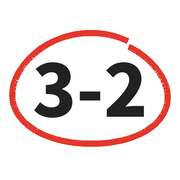
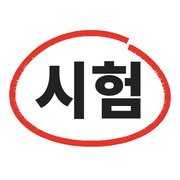
시험대비로 이름 변경, 앱 문구를 부드러운 말투로
Claude-Session: https://claude.ai/code/session_01Q9qMws47ZWFRTiFuZs99B2

Changed region(s): [[0.1944, 0.3333, 0.8056, 0.6667]]

diff --git a/exam/index.html b/exam/index.html
@@ -3,13 +3,13 @@
 <head>
 <meta charset="UTF-8">
 <meta name="viewport" content="width=device-width, initial-scale=1, viewport-fit=cover">
-<title>3-2 기말고사</title>
+<title>시험대비</title>
 <meta name="description" content="역사, 수학, 영어 기말고사 단계별 문제">
 <meta name="theme-color" content="#ffffff">
 <meta name="apple-mobile-web-app-capable" content="yes">
 <meta name="mobile-web-app-capable" content="yes">
 <meta name="apple-mobile-web-app-status-bar-style" content="default">
-<meta name="apple-mobile-web-app-title" content="3-2 기말고사">
+<meta name="apple-mobile-web-app-title" content="시험대비">
 <link rel="icon" type="image/png" href="favicon.png">
 <link rel="apple-touch-icon" href="apple-touch-icon.png">
 <link rel="stylesheet" href="https://cdn.jsdelivr.net/gh/orioncactus/pretendard@v1.3.9/dist/web/variable/pretendardvariable-dynamic-subset.min.css">
@@ -59,8 +59,7 @@ button:focus-visible, textarea:focus-visible, input:focus-visible { outline: 2px
 /* home */
 .home { padding-top: calc(env(safe-area-inset-top, 0px) + 56px); }
 .title { margin: 0; font-weight: 800; letter-spacing: -0.045em; line-height: 0.98; }
-.title .t1 { display: block; font-size: 88px; letter-spacing: -0.06em; }
-.title .t2 { display: block; font-size: 40px; margin-top: 6px; }
+.title .t1 { display: block; font-size: 64px; letter-spacing: -0.05em; }
 .lead { margin: 14px 0 0; color: var(--sub); font-size: 15px; line-height: 1.6; }
 
 .subjs { margin-top: 40px; border-top: 1px solid var(--line); }
@@ -229,8 +228,7 @@ textarea:disabled, .sa input:disabled { background: var(--fill); color: var(--in
   .prog i { transition: none; }
 }
 @media (max-width: 360px) {
-  .title .t1 { font-size: 72px; }
-  .title .t2 { font-size: 34px; }
+  .title .t1 { font-size: 54px; }
   .qtext { font-size: 18px; }
 }
 </style>
@@ -692,7 +690,7 @@ function route() {
 
 function home() {
   setBar(null);
-  document.title = '3-2 기말고사';
+  document.title = '시험대비';
   const rows = ORDER.map(k => {
     const d = DATA[k];
     const meta = `<span class="subj-meta">${esc(d.book)}<br>${esc(d.range)}</span>`;
@@ -706,8 +704,8 @@ function home() {
     return `<button class="subj" onclick="go('#/${k}')"><div class="subj-main"><span class="subj-name">${d.name}</span>${meta}</div><span class="steps" aria-label="통과한 단계">${steps}</span></button>`;
   }).join('');
   app.innerHTML = `<div class="wrap home">
-    <h1 class="title"><span class="t1">3-2</span><span class="t2">기말고사</span></h1>
-    <p class="lead">과목 하나 골라서 1단계부터 풀어.<br>${PASS}점 이상이면 다음 단계가 열려.</p>
+    <h1 class="title"><span class="t1">시험대비</span></h1>
+    <p class="lead">풀고 싶은 과목을 골라 주세요.<br>${PASS}점 이상 받으면 다음 단계가 열려요.</p>
     <nav class="subjs">${rows}</nav>
   </div>`;
 }
@@ -715,13 +713,13 @@ function home() {
 function subject(k) {
   const d = DATA[k];
   setBar(null);
-  document.title = d.name + ' | 3-2 기말고사';
+  document.title = d.name + ' | 시험대비';
   const wtype = k === 'math' ? '주관식' : '서술형';
   const stages = d.stages.map((qs, i) => {
     const best = S.best[k + '-' + i];
     const open = isOpen(k, i);
     const mc = qs.filter(q => q.t === 'mc').length;
-    const meta = open ? `객관식 ${mc}문제, ${wtype} ${qs.length - mc}문제` : `${i}단계 ${PASS}점 이상이면 열려`;
+    const meta = open ? `객관식 ${mc}문제, ${wtype} ${qs.length - mc}문제` : `${i}단계에서 ${PASS}점 이상 받으면 열려요`;
     const side = !open ? ICON.lock : best != null ? `<span class="best">${best}</span>` : ICON.chev;
     return `<button class="stage" ${open ? '' : 'disabled'} onclick="start('${k}',${i})">
       <span class="stage-no">${i + 1}</span>
@@ -743,14 +741,14 @@ function wrongNote(k) {
   const d = DATA[k];
   const ids = S.wrong[k] || [];
   const qs = allQs(k).filter(q => ids.includes(q.id));
-  document.title = d.name + ' 오답노트 | 3-2 기말고사';
+  document.title = d.name + ' 오답노트 | 시험대비';
   const list = qs.length
     ? `<ol class="wlist">${qs.map(q => `<li><span class="wl-st">${stageOf(q.id)}단계</span>${fmt(q.q)}<span class="wl-a">${fmt(answerText(q))}</span></li>`).join('')}</ol>`
-    : `<p class="empty">아직 틀린 문제가 없어.<br>단계를 풀다가 틀리면 여기 모여.</p>`;
+    : `<p class="empty">아직 틀린 문제가 없어요.<br>틀린 문제는 여기에 모여요.</p>`;
   app.innerHTML = `<div class="wrap">
     <header class="top"><button class="icon" onclick="go('#/${k}')" aria-label="뒤로">${ICON.back}</button></header>
     <h1 class="h-subj">${d.name} 오답노트</h1>
-    <p class="lead">맞히면 여기서 빠져.</p>
+    <p class="lead">다시 풀어서 맞히면 목록에서 빠져요.</p>
     ${list}
   </div>`;
   setBar(qs.length ? [{ label: `${qs.length}문제 다시 풀기`, fn: () => start(k, 'wrong') }] : null);
@@ -788,7 +786,7 @@ function start(k, stage) {
 }
 
 function quit() {
-  if (Q && Q.i > 0 && !confirm('그만할까? 지금까지 푼 건 점수에 안 들어가.')) return;
+  if (Q && Q.i > 0 && !confirm('그만할까요? 지금까지 푼 문제는 점수에 들어가지 않아요.')) return;
   const k = Q ? Q.sk : '';
   Q = null;
   go('#/' + k);
@@ -798,19 +796,19 @@ function renderQ() {
   const q = Q.list[Q.i], n = Q.i + 1, N = Q.list.length;
   Q.done = false;
   const d = DATA[Q.sk];
-  document.title = `${d.name} ${n}번 | 3-2 기말고사`;
+  document.title = `${d.name} ${n}번 | 시험대비`;
   let body = '';
   if (q.t === 'mc') {
     body = `<ol class="opts">${q.o.map((t, i) => `<li><button class="opt" data-i="${i}"><span class="bub">${i + 1}</span><span class="otext">${fmt(t)}</span></button></li>`).join('')}</ol>`;
   } else if (q.t === 'es') {
-    body = `<div class="answer-area"><textarea id="ans" rows="6" placeholder="핵심 단어가 들어가야 점수가 나와" aria-label="답안"></textarea></div>`;
+    body = `<div class="answer-area"><textarea id="ans" rows="6" placeholder="핵심 단어가 들어가야 점수가 나와요" aria-label="답안"></textarea></div>`;
   } else if (q.en) {
-    body = `<div class="answer-area"><div class="sa"><input id="ans" type="text" autocomplete="off" autocapitalize="off" autocorrect="off" spellcheck="false" placeholder="영어로 써" aria-label="답"></div></div>`;
+    body = `<div class="answer-area"><div class="sa"><input id="ans" type="text" autocomplete="off" autocapitalize="off" autocorrect="off" spellcheck="false" placeholder="영어로 입력해 주세요" aria-label="답"></div></div>`;
   } else {
     body = `<div class="answer-area">
-      <div class="sa"><input id="ans" type="text" inputmode="text" autocomplete="off" autocapitalize="off" autocorrect="off" spellcheck="false" placeholder="답만 써" aria-label="답">${q.unit ? `<span class="unit">${q.unit}</span>` : ''}</div>
+      <div class="sa"><input id="ans" type="text" inputmode="text" autocomplete="off" autocapitalize="off" autocorrect="off" spellcheck="false" placeholder="답을 입력해 주세요" aria-label="답">${q.unit ? `<span class="unit">${q.unit}</span>` : ''}</div>
       <div class="keypad">${['√', '/', '°', '−'].map(c => `<button type="button" data-k="${c}" aria-label="${c} 넣기">${c}</button>`).join('')}</div>
-      <p class="hint">분수는 3/5처럼, 루트는 √ 버튼으로 써.</p>
+      <p class="hint">분수는 3/5처럼, 루트는 √ 버튼으로 넣을 수 있어요.</p>
     </div>`;
   }
   const tag = (q.t === 'es' || q.en) ? '<span class="qtag">[서술형]</span> ' : q.t === 'sa' ? '<span class="qtag">[주관식]</span> ' : '';
@@ -881,7 +879,7 @@ function answerMC(i) {
   btns[q.a].querySelector('.bub').insertAdjacentHTML('beforeend', pen('o'));
   if (!ok) btns[i].querySelector('.bub').insertAdjacentHTML('beforeend', pen('x'));
   document.getElementById('after').innerHTML =
-    `<p class="verdict">${ok ? '맞았어' : '틀렸어. 정답은 ' + (q.a + 1) + '번'}</p><div class="exp"><b>해설</b>${fmt(q.e)}</div>`;
+    `<p class="verdict">${ok ? '맞았어요' : '아쉬워요. 정답은 ' + (q.a + 1) + '번'}</p><div class="exp"><b>해설</b>${fmt(q.e)}</div>`;
   record(ok ? 1 : 0);
 }
 
@@ -894,8 +892,8 @@ function gradeES() {
   const v = h >= need ? 1 : h >= Math.ceil(need / 2) ? 0.5 : 0;
   inp.disabled = true;
   document.getElementById('after').innerHTML = `
-    <p class="verdict">${v === 1 ? '통과' : v > 0 ? '부분 점수' : '다시 외우자'}</p>
-    <p class="keycap">핵심어 ${q.k.length}개 중 ${h}개 들어감. ${need}개 이상이면 통과야.</p>
+    <p class="verdict">${v === 1 ? '통과' : v > 0 ? '부분 점수' : '아쉬워요'}</p>
+    <p class="keycap">핵심어 ${q.k.length}개 중 ${h}개가 들어갔어요. ${need}개 이상이면 통과예요.</p>
     <div class="keys">${q.k.map((g, j) => `<span class="key ${hits[j] ? 'hit' : 'miss'}">${esc(g[0])}</span>`).join('')}</div>
     <div class="exp"><b>모범 답안</b>${fmt(q.m)}</div>`;
   record(v);
@@ -910,7 +908,7 @@ function gradeSA() {
   inp.disabled = true;
   app.querySelectorAll('.keypad button').forEach(b => b.disabled = true);
   document.getElementById('after').innerHTML = `
-    <p class="verdict">${ok ? '맞았어' : '틀렸어'}</p>
+    <p class="verdict">${ok ? '맞았어요' : '아쉬워요'}</p>
     <div class="exp"><b>정답 ${fmt(q.en ? q.ans[0] : toFrac(q.ans[0]))}${q.unit ? ' ' + q.unit : ''}</b>${fmt(q.m)}</div>`;
   record(ok ? 1 : 0);
 }
@@ -929,18 +927,18 @@ function result() {
     if (score >= PASS) {
       if (Q.stage < 2) {
         nextStage = Q.stage + 1;
-        note = (prev || 0) >= PASS ? '' : `${Q.stage + 2}단계가 열렸어.`;
-      } else note = '마지막 단계까지 통과했어.';
-    } else note = `${PASS}점 이상이면 다음 단계가 열려.`;
+        note = (prev || 0) >= PASS ? '' : `${Q.stage + 2}단계가 열렸어요.`;
+      } else note = '마지막 단계까지 통과했어요.';
+    } else note = `${PASS}점 이상 받으면 다음 단계가 열려요.`;
   }
   const stars = score >= 90 ? 3 : score >= 80 ? 2 : score >= PASS ? 1 : 0;
   const wrongs = Q.res.filter(r => r.v < 1);
-  document.title = `${d.name} ${score}점 | 3-2 기말고사`;
+  document.title = `${d.name} ${score}점 | 시험대비`;
   app.innerHTML = `<div class="wrap result">
     <p class="r-label">${d.name} ${Q.stage === 'wrong' ? '오답노트' : d.titles[Q.stage]}</p>
     <div class="score" aria-label="${score}점"><span class="score-n">${score}</span><span class="score-u">점</span>${pen('o')}</div>
     <p class="stars" aria-label="별 ${stars}개">${[0, 1, 2].map(i => `<span class="${i < stars ? 'on' : ''}">★</span>`).join('')}</p>
-    <p class="r-note">${N}문제 중 ${right}문제 맞힘${part ? `, 부분 점수 ${part}문제` : ''}. ${note}</p>
+    <p class="r-note">${N}문제 중 ${right}문제를 맞혔어요${part ? ` (부분 점수 ${part}문제)` : ''}. ${note}</p>
     ${wrongs.length ? `<h3 class="r-h">다시 볼 문제</h3><ol class="wlist">${wrongs.map(r => `<li>${fmt(r.q.q)}<span class="wl-a">${fmt(answerText(r.q))}</span></li>`).join('')}</ol>` : ''}
   </div>`;
   const stage = Q.stage;

diff --git a/trashcan/index.html b/trashcan/index.html
@@ -541,7 +541,7 @@ a:visited { color: var(--link-vis); }
       <img class="game-bullet" alt="">
       <div class="game-info">
         <div class="game-title-row">
-          <span class="game-name">3-2 기말고사</span>
+          <span class="game-name">시험대비</span>
           <span class="game-genre">STUDY</span>
         </div>
         <div class="game-jp">✧ テスト勉強がんばる ✧</div>
@@ -568,7 +568,7 @@ a:visited { color: var(--link-vis); }
   <div class="update-box">
     <div class="update-title">📅 What's New</div>
     <ul>
-      <li><span class="blink new-badge" style="font-size:8px;background:#ff0;color:#f00;padding:0 3px;">NEW</span> 2026.10 — 3-2 기말고사 追加</li>
+      <li><span class="blink new-badge" style="font-size:8px;background:#ff0;color:#f00;padding:0 3px;">NEW</span> 2026.10 — 시험대비 追加</li>
       <li>2026.10 — 판다 사주 追加</li>
       <li>2026.10 — 본격! 악녀로 살아남기・아이돌 체험 追加</li>
       <li>2026.10 — サイトリニューアル！</li>
